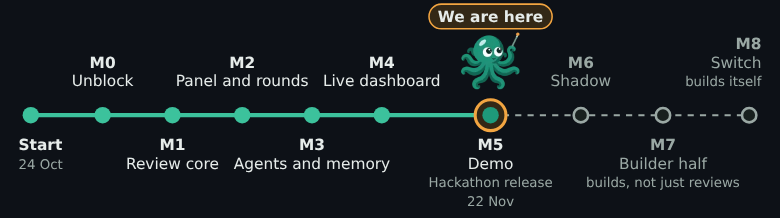
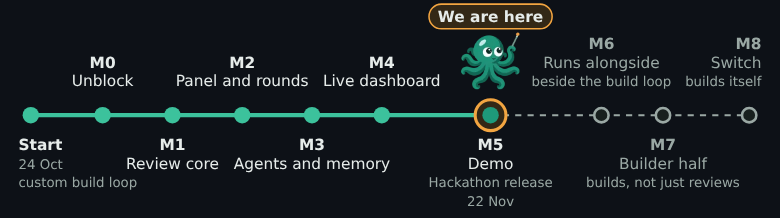
docs: roadmap shows M6 Runs alongside and the custom build loop at the start

diff --git a/tests/Application/ReadmeRoadmapPictureTest.php b/tests/Application/ReadmeRoadmapPictureTest.php
@@ -10,7 +10,7 @@ use PHPUnit\Framework\TestCase;
 #[CoversNothing]
 final class ReadmeRoadmapPictureTest extends TestCase
 {
-    private const array MILESTONES = ['M0 Unblock', 'M1 Review core', 'M2 Panel and rounds', 'M3 Agents and memory', 'M4 Live dashboard', 'M5 Demo', 'M6 Shadow', 'M7 Builder half', 'M8 Switch'];
+    private const array MILESTONES = ['M0 Unblock', 'M1 Review core', 'M2 Panel and rounds', 'M3 Agents and memory', 'M4 Live dashboard', 'M5 Demo', 'M6 Runs alongside', 'M7 Builder half', 'M8 Switch'];
 
     public function testTheRoadmapPictureServesTheDarkImageForADarkColorScheme(): void
     {
@@ -59,7 +59,7 @@ final class ReadmeRoadmapPictureTest extends TestCase
     {
         $alt = $this->imgAttribute('alt');
 
-        self::assertStringContainsString('started 24 Oct', $alt);
+        self::assertStringContainsString('started 24 Oct by a custom build loop', $alt);
         self::assertStringContainsString('we are here', $alt);
         self::assertStringContainsString('22 Nov', $alt);
         foreach (self::MILESTONES as $milestone) {

diff --git a/README.md b/README.md
@@ -141,7 +141,7 @@ Development continues after the hackathon: [the hackathon page](docs/hackathon.m
 <p align="center">
   <picture>
     <source media="(prefers-color-scheme: dark)" srcset="docs/assets/roadmap-dark.svg" width="560" height="156">
-    <img src="docs/assets/roadmap-light.svg" alt="Intakt roadmap: started 24 Oct; done: M0 Unblock, M1 Review core, M2 Panel and rounds, M3 Agents and memory, M4 Live dashboard; we are here, with the octopus: M5 Demo, the hackathon release, 22 Nov; next: M6 Shadow, M7 Builder half (Intakt builds as well as reviews), M8 Switch (Intakt builds itself)" width="560" height="156" loading="lazy">
+    <img src="docs/assets/roadmap-light.svg" alt="Intakt roadmap: started 24 Oct by a custom build loop; done: M0 Unblock, M1 Review core, M2 Panel and rounds, M3 Agents and memory, M4 Live dashboard; we are here, with the octopus: M5 Demo, the hackathon release, 22 Nov; next: M6 Runs alongside (beside the build loop), M7 Builder half (Intakt builds as well as reviews), M8 Switch (Intakt builds itself)" width="560" height="156" loading="lazy">
   </picture>
 </p>
 

diff --git a/docs/hackathon.md b/docs/hackathon.md
@@ -6,7 +6,7 @@ what was achieved inside that window, and what comes next. Development continues
 <p align="center">
   <picture>
     <source media="(prefers-color-scheme: dark)" srcset="assets/roadmap-dark.svg" width="760" height="212">
-    <img src="assets/roadmap-light.svg" alt="Intakt roadmap: started 24 Oct; done: M0 Unblock, M1 Review core, M2 Panel and rounds, M3 Agents and memory, M4 Live dashboard; we are here, with the octopus: M5 Demo, the hackathon release, 22 Nov; next: M6 Shadow, M7 Builder half (Intakt builds as well as reviews), M8 Switch (Intakt builds itself)" width="760" height="212" loading="lazy">
+    <img src="assets/roadmap-light.svg" alt="Intakt roadmap: started 24 Oct by a custom build loop; done: M0 Unblock, M1 Review core, M2 Panel and rounds, M3 Agents and memory, M4 Live dashboard; we are here, with the octopus: M5 Demo, the hackathon release, 22 Nov; next: M6 Runs alongside (beside the build loop), M7 Builder half (Intakt builds as well as reviews), M8 Switch (Intakt builds itself)" width="760" height="212" loading="lazy">
   </picture>
 </p>
 
